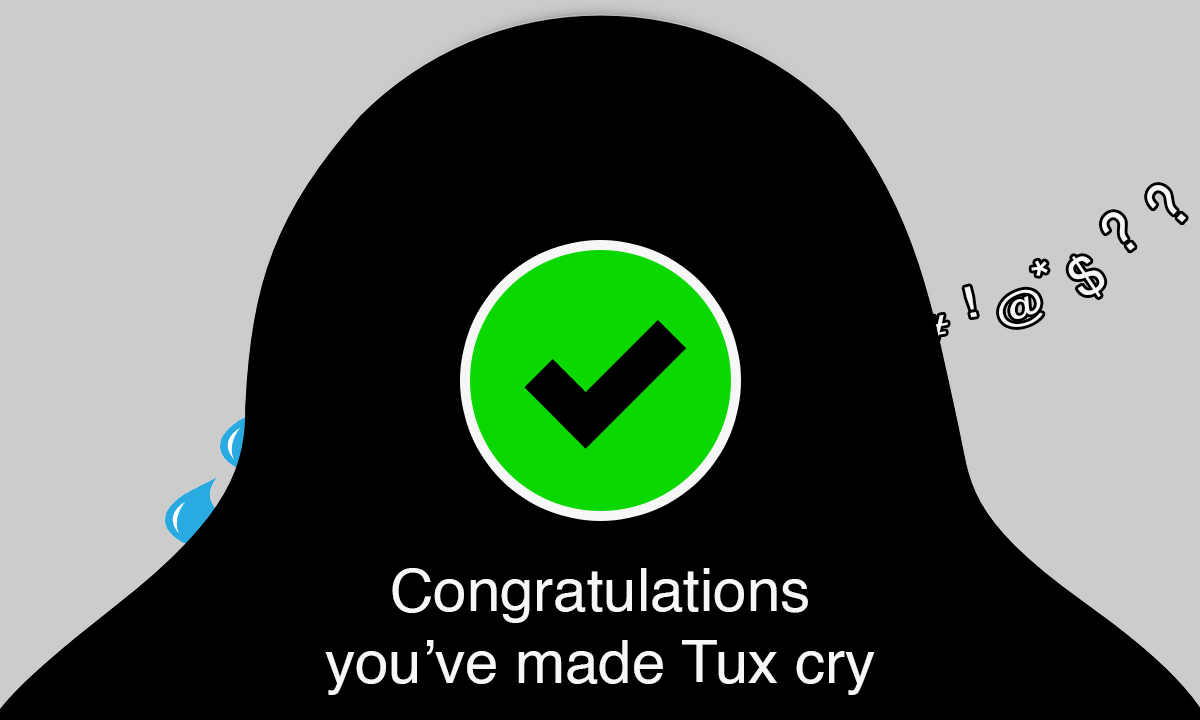
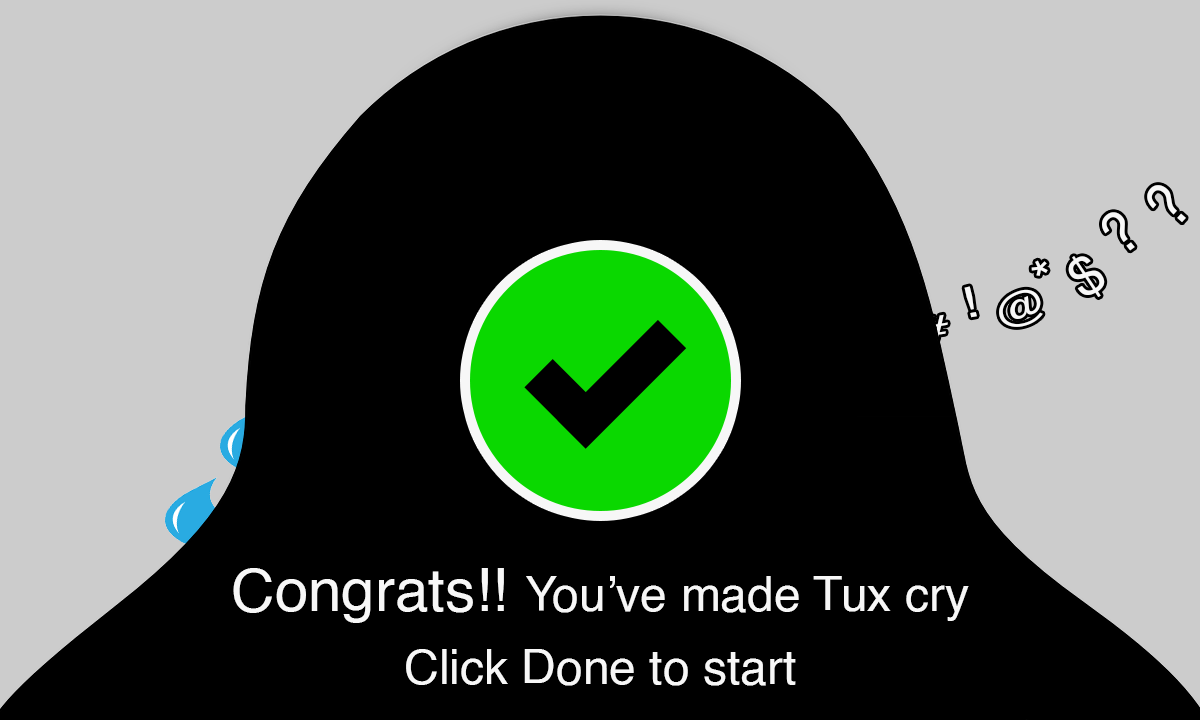
- Improved setup installer. Further closes #315

Changed region(s): [[0.185, 0.7944, 0.8017, 0.9778]]

diff --git a/xkeysnail-config/gui/kinto-gui.py b/xkeysnail-config/gui/kinto-gui.py
@@ -1384,13 +1384,43 @@ class SuccessPage(Gtk.Box):
     def __init__(self, parent_window):
         super().__init__(spacing=10)
         self.__parent_window = parent_window
+        self.grid = Gtk.Grid()
 
-        vbox_container = Gtk.VBox()
-        self.__parent_window.last_onward.props.relief = Gtk.ReliefStyle.NONE
+        hbox = Gtk.HBox()
+        previous = Gtk.Button("       ")
+        previous.props.relief = Gtk.ReliefStyle.NONE
+        previous.set_margin_right(245)
+        hbox.add(previous)
+
+        self.__parent_window.last_onward.set_label("")
+        for child in self.__parent_window.last_onward.get_children():
+            child.set_label("<b>Done</b>")
+            child.set_use_markup(True)
         self.__parent_window.last_onward.connect("clicked", self.forward)
-        vbox_container.set_margin_top(600)
-        vbox_container.add(self.__parent_window.last_onward)
-        self.add(vbox_container)
+
+        hbox.add(self.__parent_window.last_onward)
+        hbox.set_hexpand(False)
+        hbox.set_vexpand(False)
+        hbox.set_margin_bottom(6)
+        hbox.set_margin_right(25)
+
+        scroller = Gtk.ScrolledWindow()
+        scroller.set_policy(Gtk.PolicyType.NEVER, Gtk.PolicyType.NEVER)
+        scroller.set_hexpand(True)
+        scroller.set_vexpand(True)
+        vbox = Gtk.VBox()
+        vbox_container = Gtk.VBox()
+        vbox_container.set_margin_top(55)
+        vbox_container.set_margin_right(28)
+        vbox_container.add(scroller)
+        self.grid.set_margin_left(157)
+        vbox_container.set_margin_bottom(18)
+        vbox.set_margin_right(10)
+        vbox.set_margin_bottom(18)
+        self.grid.add(vbox_container)
+        self.grid.attach_next_to(hbox, vbox_container, Gtk.PositionType.BOTTOM, 2, 1)
+        self.add(self.grid)
+        self.__parent_window.last_onward.grab_focus()
 
     def forward(self, *args):
         self.hide()
